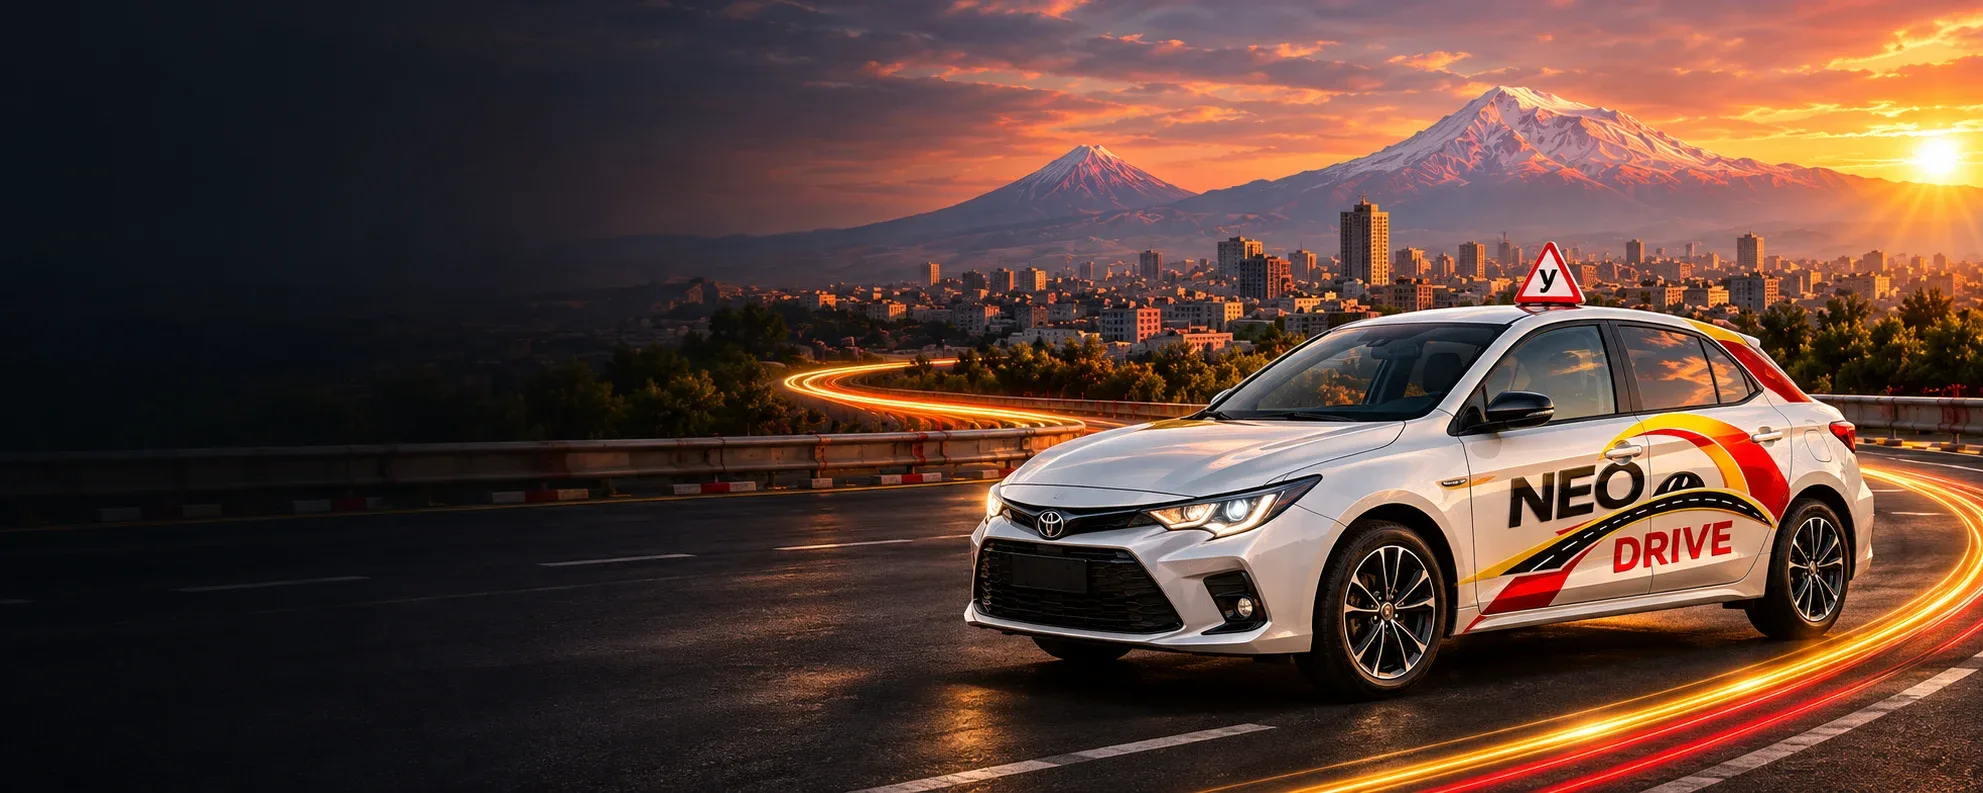
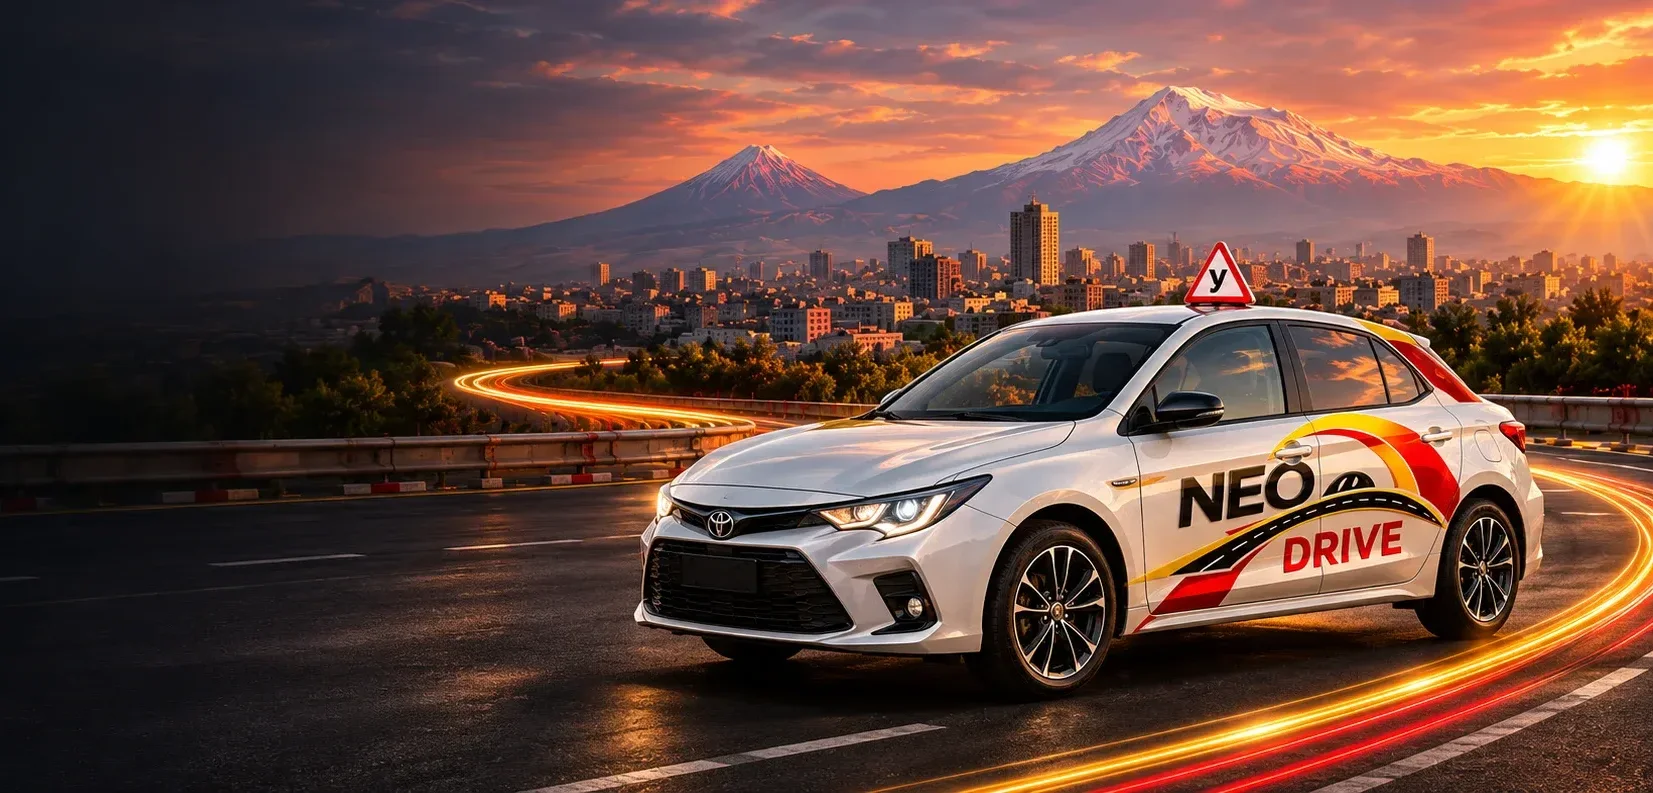
Hero: crop dark left of photo, lighter overlay like the design
Claude-Session: https://claude.ai/code/session_01DPuzQG3ZZRRgjenPq7H1Lo

diff --git a/index.html b/index.html
@@ -23,15 +23,15 @@ svg.i{width:1em;height:1em;stroke:currentColor;fill:none;stroke-width:1.9;stroke
 .btn.sm{padding:10px 18px;font-size:14px}
 
 /* hero */
-.hero{position:relative;color:#fff;background:#0c1016 url(assets/hero.webp) 92% center/cover no-repeat;min-height:640px;padding-bottom:70px}
-.hero:before{content:"";position:absolute;inset:0;background:linear-gradient(90deg,#090c11f2 0%,#090c11b8 38%,#090c1100 72%),linear-gradient(0deg,#0c1016 0%,#0c101600 22%)}
+.hero{position:relative;color:#fff;background:#0c1016 url(assets/hero.webp) right center/cover no-repeat;min-height:640px;padding-bottom:70px}
+.hero:before{content:"";position:absolute;inset:0;background:linear-gradient(180deg,#090c11a8 0,#090c1100 150px),linear-gradient(90deg,#090c11e0 0%,#090c1195 30%,#090c1100 58%),linear-gradient(0deg,#0c1016 0%,#0c101600 22%)}
 .hero>.wrap{position:relative}
 header{display:flex;align-items:center;justify-content:space-between;gap:20px;padding:22px 0}
 .brand{display:inline-block;line-height:0}.brand img{height:128px;margin:-14px 0;width:auto;display:block}
 .tools{display:flex;align-items:center;gap:14px}
 .search{width:38px;height:38px;border-radius:9px;border:0;background:#ffffff2e;color:#fff;font-size:18px;display:grid;place-items:center}
 .langs{display:flex;gap:4px}
-.lang{border:0;background:none;color:#e4e4e8;font-size:12px;font-weight:700;letter-spacing:.5px;padding:6px 8px;border-bottom:2px solid transparent}
+.lang{text-shadow:0 1px 6px #0009;border:0;background:none;color:#e4e4e8;font-size:12px;font-weight:700;letter-spacing:.5px;padding:6px 8px;border-bottom:2px solid transparent}
 .lang.on{color:var(--gold);border-color:var(--gold)}
 .hero-copy{max-width:600px;padding-top:34px}
 h1{font-size:clamp(38px,5.2vw,66px);line-height:1.05;letter-spacing:-1.5px;margin:0 0 20px;font-weight:800}
